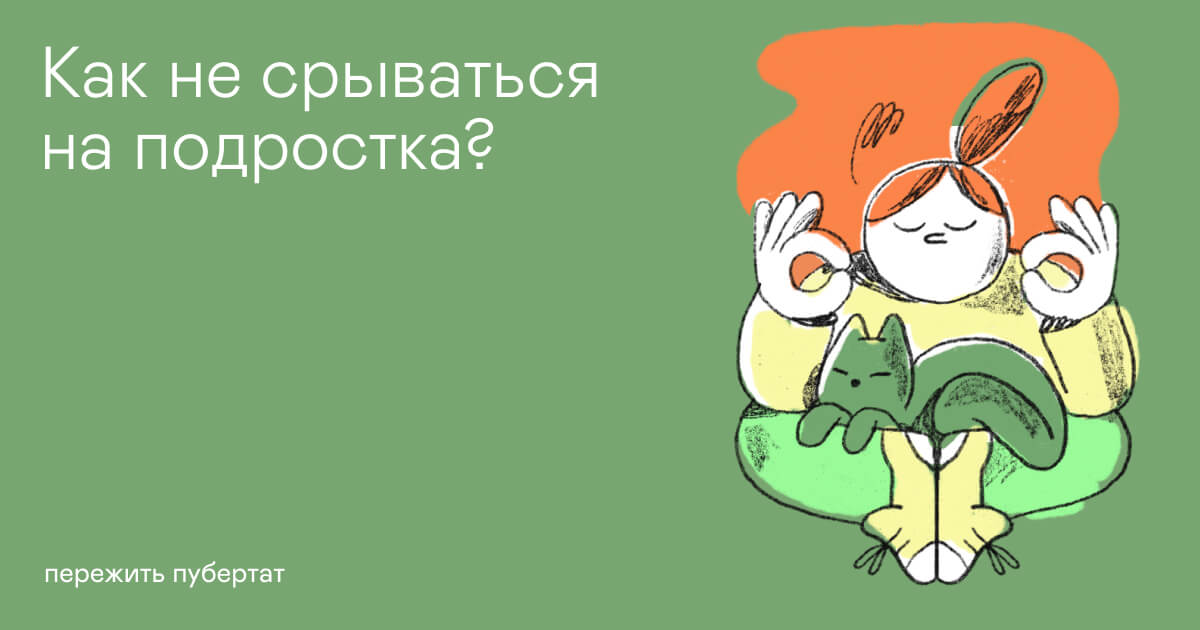
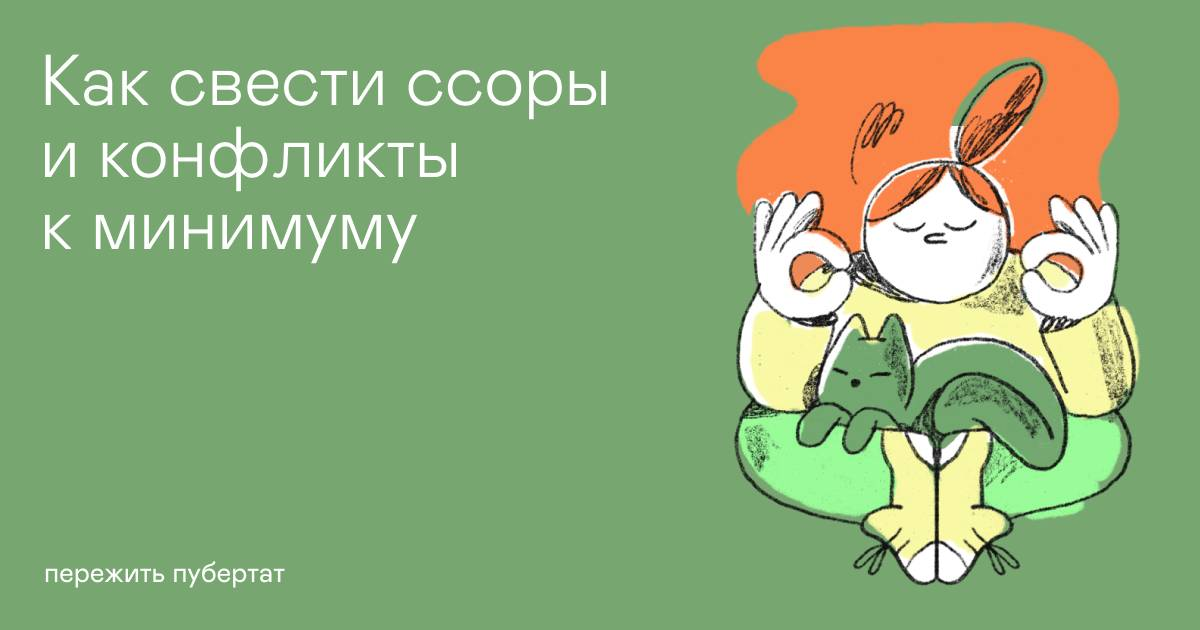
update opengraph

diff --git a/case2/index.html b/case2/index.html
@@ -1,1 +1,1 @@
-<!doctype html><html lang="ru"><head><meta charset="utf-8"/><meta name="viewport" content="width=device-width,initial-scale=1,maximum-scale=1"/><meta name="theme-color" content="#ffffff"/><meta name="description" content="Тренажёр для родителей подростков"/><link rel="apple-touch-icon" sizes="180x180" href="/case2/favicon/apple-touch-icon.png"><link rel="icon" type="image/png" sizes="32x32" href="/case2/favicon/favicon-32x32.png"><link rel="icon" type="image/png" sizes="16x16" href="/case2/favicon/favicon-16x16.png"><link rel="manifest" href="/case2/favicon/site.webmanifest"><link rel="mask-icon" href="/case2/favicon/safari-pinned-tab.svg" color="#5bbad5"><link rel="shortcut icon" href="/case2/favicon/favicon.ico"><meta name="msapplication-TileColor" content="#78a671"><meta name="msapplication-config" content="/case2/favicon/browserconfig.xml"><meta name="theme-color" content="#ffffff"><link rel="manifest" href="/case2/manifest.json"/><meta name="mobile-web-app-capable" content="yes"/><meta name="apple-mobile-web-app-capable" content="yes"/><meta name="description" content="Мы верим: навык общения с подростками можно развить. Пусть не сразу, но постепенно, шаг за шагом. "><meta name="twitter:card" content="summary_large_image"><meta name="twitter:title" content="Пережить пубертат — тренажёр для родителей подростков"><meta name="twitter:description" content="Мы верим: навык общения с подростками можно развить. Пусть не сразу, но постепенно, шаг за шагом. "><meta name="twitter:image" content="https://pbrtt.ru/case2/img/og-image.jpg"><meta property="og:locale " content="ru_RU"><meta property="og:title" content="Пережить пубертат — тренажёр для родителей подростков"><meta property="og:type" content="website"><meta property="og:url" content="https://pbrtt.ru/case2/"><meta property="og:image" content="https://pbrtt.ru/case2/img/og-image.jpg"><meta property="og:image:secure_url" content="https://pbrtt.ru/case2/img/og-image.jpg"><meta property="og:description" content="Мы верим: навык общения с подростками можно развить. Пусть не сразу, но постепенно, шаг за шагом. "><meta property="og:image:width" content="1200"><meta property="og:image:height" content="630"><link rel="stylesheet" href="/case2/fonts/font.css"><title>Пережить пубертат — тренажёр для родителей подростков</title><script>window.apiurl="https://api.pbrtt.ru/api/",window.basename="/case2",window.mediaurl="/case2"</script><script>!function(e,t,a,n,g){e[n]=e[n]||[],e[n].push({"gtm.start":(new Date).getTime(),event:"gtm.js"});var m=t.getElementsByTagName(a)[0],r=t.createElement(a);r.async=!0,r.src="https://www.googletagmanager.com/gtm.js?id=GTM-M5TPHPS",m.parentNode.insertBefore(r,m)}(window,document,"script","dataLayer")</script><script type="text/javascript">var _tmr=window._tmr||(window._tmr=[]);_tmr.push({id:"3363359",type:"pageView",start:(new Date).getTime(),pid:"USER_ID"}),function(e,t,r){if(!e.getElementById(r)){var a=e.createElement("script");a.type="text/javascript",a.async=!0,a.id=r,a.src="https://top-fwz1.mail.ru/js/code.js";var n=function(){var t=e.getElementsByTagName("script")[0];t.parentNode.insertBefore(a,t)};"[object Opera]"==t.opera?e.addEventListener("DOMContentLoaded",n,!1):n()}}(document,window,"tmr-code")</script><script defer="defer" src="/case2/static/js/main.55b449e2.js"></script><link href="/case2/static/css/main.4a7a73ca.css" rel="stylesheet"></head><body><noscript><iframe src="https://www.googletagmanager.com/ns.html?id=GTM-M5TPHPS" height="0" width="0" style="display:none;visibility:hidden"></iframe></noscript><noscript><div><img src="https://top-fwz1.mail.ru/counter?id=3363359;js=na" style="position:absolute;left:-9999px" alt="Top.Mail.Ru"/></div></noscript><noscript>You need to enable JavaScript to run this app.</noscript><div id="root"></div></body></html>
+<!doctype html><html lang="ru"><head><meta charset="utf-8"/><meta name="viewport" content="width=device-width,initial-scale=1,maximum-scale=1"/><meta name="theme-color" content="#ffffff"/><meta name="description" content="Устали ссориться с ребенком? Надоело, что каждый разговор превращается в конфликт? Хотите, чтобы ситуация изменилась?"/><link rel="apple-touch-icon" sizes="180x180" href="/case2/favicon/apple-touch-icon.png"><link rel="icon" type="image/png" sizes="32x32" href="/case2/favicon/favicon-32x32.png"><link rel="icon" type="image/png" sizes="16x16" href="/case2/favicon/favicon-16x16.png"><link rel="manifest" href="/case2/favicon/site.webmanifest"><link rel="mask-icon" href="/case2/favicon/safari-pinned-tab.svg" color="#5bbad5"><link rel="shortcut icon" href="/case2/favicon/favicon.ico"><meta name="msapplication-TileColor" content="#78a671"><meta name="msapplication-config" content="/case2/favicon/browserconfig.xml"><meta name="theme-color" content="#ffffff"><link rel="manifest" href="/case2/manifest.json"/><meta name="mobile-web-app-capable" content="yes"/><meta name="apple-mobile-web-app-capable" content="yes"/><meta name="description" content="Устали ссориться с ребенком? Надоело, что каждый разговор превращается в конфликт? Хотите, чтобы ситуация изменилась?"><meta name="twitter:card" content="summary_large_image"><meta name="twitter:title" content="Пережить пубертат - Диалоговый тренажер для родителей"><meta name="twitter:description" content="Устали ссориться с ребенком? Надоело, что каждый разговор превращается в конфликт? Хотите, чтобы ситуация изменилась?"><meta name="twitter:image" content="https://pbrtt.ru/case2/img/og-image.jpg"><meta property="og:locale " content="ru_RU"><meta property="og:title" content="Пережить пубертат - Диалоговый тренажер для родителей"><meta property="og:type" content="website"><meta property="og:url" content="https://pbrtt.ru/case2/"><meta property="og:image" content="https://pbrtt.ru/case2/img/og-image.jpg"><meta property="og:image:secure_url" content="https://pbrtt.ru/case2/img/og-image.jpg"><meta property="og:description" content="Устали ссориться с ребенком? Надоело, что каждый разговор превращается в конфликт? Хотите, чтобы ситуация изменилась?"><meta property="og:image:width" content="1200"><meta property="og:image:height" content="630"><link rel="stylesheet" href="/case2/fonts/font.css"><title>Пережить пубертат - Диалоговый тренажер для родителей</title><script>window.apiurl="https://api.pbrtt.ru/api/",window.basename="/case2",window.mediaurl="/case2"</script><script>!function(e,t,a,n,g){e[n]=e[n]||[],e[n].push({"gtm.start":(new Date).getTime(),event:"gtm.js"});var m=t.getElementsByTagName(a)[0],r=t.createElement(a);r.async=!0,r.src="https://www.googletagmanager.com/gtm.js?id=GTM-M5TPHPS",m.parentNode.insertBefore(r,m)}(window,document,"script","dataLayer")</script><script type="text/javascript">var _tmr=window._tmr||(window._tmr=[]);_tmr.push({id:"3363359",type:"pageView",start:(new Date).getTime(),pid:"USER_ID"}),function(e,t,r){if(!e.getElementById(r)){var a=e.createElement("script");a.type="text/javascript",a.async=!0,a.id=r,a.src="https://top-fwz1.mail.ru/js/code.js";var n=function(){var t=e.getElementsByTagName("script")[0];t.parentNode.insertBefore(a,t)};"[object Opera]"==t.opera?e.addEventListener("DOMContentLoaded",n,!1):n()}}(document,window,"tmr-code")</script><script defer="defer" src="/case2/static/js/main.55b449e2.js"></script><link href="/case2/static/css/main.4a7a73ca.css" rel="stylesheet"></head><body><noscript><iframe src="https://www.googletagmanager.com/ns.html?id=GTM-M5TPHPS" height="0" width="0" style="display:none;visibility:hidden"></iframe></noscript><noscript><div><img src="https://top-fwz1.mail.ru/counter?id=3363359;js=na" style="position:absolute;left:-9999px" alt="Top.Mail.Ru"/></div></noscript><noscript>You need to enable JavaScript to run this app.</noscript><div id="root"></div></body></html>
